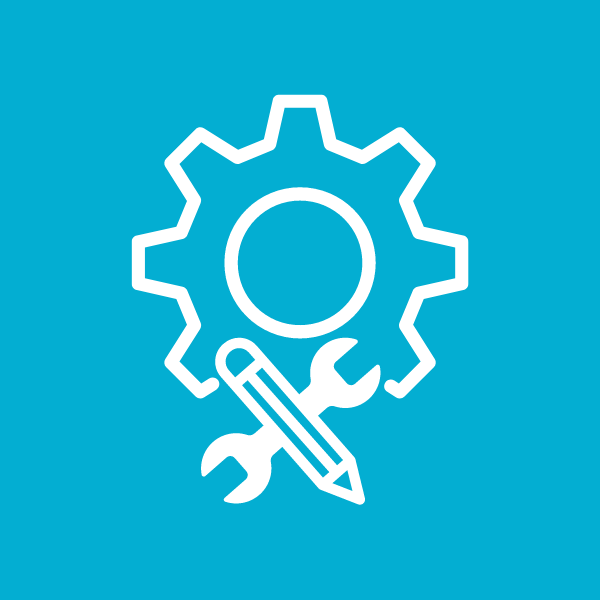
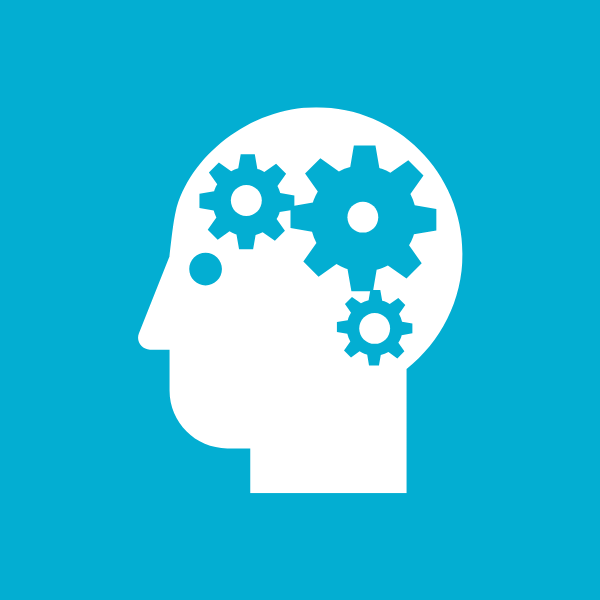
updated skills

Changed region(s): [[0.21, 0.15, 0.78, 0.84]]

diff --git a/index.html b/index.html
@@ -309,13 +309,16 @@
                     <div class="skill-box" tabindex="0">
                         <div class="skill-box-inner">
                             <div class="skill-box-front">
-                                <img src="images\skills\embedded.png">
-                                <div class="skill-name">
-                                    <h3>Embedded Systems & Firmware Development</h3>
+                                <div class="skill-image-section"><img src="images\skills\embedded.png"></div>
+                                <div class="skill-title-section">
+                                    <div class="skill-name">
+                                        <h3>Embedded Systems & Firmware Development</h3>
+                                    </div>
                                 </div>
+
                             </div>
                             <div class="skill-box-back">
-                                <div class="skill-name">
+                                <div class="tech-name">
                                     <div class="back">
                                         STM32 | ESP32 | Arduino | Jetson Nano | Bare-metal programming | RTOS | FSM | Interrupts | DMA | PWM | GPIO | ADC | Timers | IAR Embedded Workbench | STM32CubeIDE | Keil µVision | JTAG | ST-Link
                                     </div>
@@ -327,9 +330,11 @@
                     <div class="skill-box" tabindex="0">
                         <div class="skill-box-inner">
                             <div class="skill-box-front">
-                                <img src="images\skills\ml.png">
-                                <div class="tech-name">
-                                    <h3>Programming Languages & Paradigms</h3>
+                                <div class="skill-image-section"><img src="images\skills\lang.png"></div>
+                                <div class="skill-title-section">
+                                    <div class="skill-name">
+                                        <h3>Embedded Systems & Firmware Development</h3>
+                                    </div>
                                 </div>
                             </div>
                             <div class="skill-box-back">
@@ -345,9 +350,11 @@
                     <div class="skill-box" tabindex="0">
                         <div class="skill-box-inner">
                             <div class="skill-box-front">
-                                <img src="images\skills\iot.png">
-                                <div class="tech-name">
-                                    <h3>Protocols & Communication Interfaces</h3>
+                                <div class="skill-image-section"><img src="images\skills\iot.png"></div>
+                                <div class="skill-title-section">
+                                    <div class="skill-name">
+                                        <h3>Protocols & Communication Interfaces</h3>
+                                    </div>
                                 </div>
                             </div>
                             <div class="skill-box-back">
@@ -363,9 +370,11 @@
                     <div class="skill-box" tabindex="0">
                         <div class="skill-box-inner">
                             <div class="skill-box-front">
-                                <img src="images\skills\analyser.png">
-                                <div class="tech-name">
-                                    <h3>Hardware & Sensors</h3>
+                                <div class="skill-image-section"><img src="images\skills\analyser.png"></div>
+                                <div class="skill-title-section">
+                                    <div class="skill-name">
+                                        <h3>Hardware & Sensors</h3>
+                                    </div>
                                 </div>
                             </div>
                             <div class="skill-box-back">
@@ -381,9 +390,11 @@
                     <div class="skill-box" tabindex="0">
                         <div class="skill-box-inner">
                             <div class="skill-box-front">
-                                <img src="images\skills\web.png">
-                                <div class="tech-name">
-                                    <h3>Tools & Development Ecosystem</h3>
+                                <div class="skill-image-section"><img src="images\skills\tools.png"></div>
+                                <div class="skill-title-section">
+                                    <div class="skill-name">
+                                        <h3>Tools & Development Ecosystem</h3>
+                                    </div>
                                 </div>
                             </div>
                             <div class="skill-box-back">
@@ -399,9 +410,11 @@
                     <div class="skill-box" tabindex="0">
                         <div class="skill-box-inner">
                             <div class="skill-box-front">
-                                <img src="images\skills\soft.png">
-                                <div class="tech-name">
-                                    <h3>Edge AI & Acceleration</h3>
+                                <div class="skill-image-section"><img src="images\skills\ml.png"></div>
+                                <div class="skill-title-section">
+                                    <div class="skill-name">
+                                        <h3>Edge AI & Acceleration</h3>
+                                    </div>
                                 </div>
                             </div>
                             <div class="skill-box-back">
@@ -417,9 +430,11 @@
                     <div class="skill-box" tabindex="0">
                         <div class="skill-box-inner">
                             <div class="skill-box-front">
-                                <img src="images\skills\soft.png">
-                                <div class="tech-name">
-                                    <h3>Web & Application Development</h3>
+                                <div class="skill-image-section"><img src="images\skills\web.png"></div>
+                                <div class="skill-title-section">
+                                    <div class="skill-name">
+                                        <h3>Web & Application Development</h3>
+                                    </div>
                                 </div>
                             </div>
                             <div class="skill-box-back">
@@ -435,9 +450,11 @@
                     <div class="skill-box" tabindex="0">
                         <div class="skill-box-inner">
                             <div class="skill-box-front">
-                                <img src="images\skills\soft.png">
-                                <div class="tech-name">
-                                    <h3>Soft Skills</h3>
+                                <div class="skill-image-section"><img src="images\skills\soft.png"></div>
+                                <div class="skill-title-section">
+                                    <div class="skill-name">
+                                        <h3>Soft Skills</h3>
+                                    </div>
                                 </div>
                             </div>
                             <div class="skill-box-back">

diff --git a/css/main.css b/css/main.css
@@ -1369,6 +1369,25 @@ input::-moz-focus-inner {
     border-radius: 10px;
 }
 
+.skill-image-section {
+    flex: 2;
+    display: flex;
+    align-items: center;
+    justify-content: center;
+    padding: 20px;
+    /* border-bottom: 2px solid rgba(255, 255, 255, 0.2); */
+}
+
+.skill-title-section {
+    flex: 1;
+    display: flex;
+    align-items: start;
+    justify-content: center;
+    padding: 20px;
+    /* background: rgba(0, 0, 0, 0.1); */
+    border-radius: 0 0 10px 10px;
+}
+
 .skill-box-front img {
     height: 15rem;
     width: 15rem !important;
